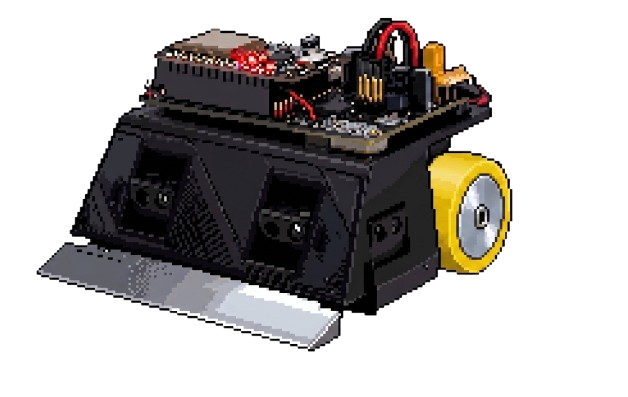
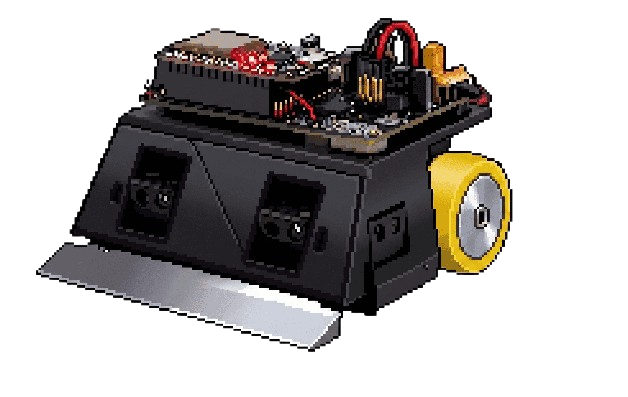
Ajustes de simetria, correção de glow e mudança de assets

diff --git a/web/majinboo.html b/web/majinboo.html
@@ -55,8 +55,6 @@
         font-family: var(--font-body);
         font-size: 16px;
         overscroll-behavior: none;
-        transform: scale(0.95);
-        transform-origin: top center;
       }
       button {
         font-family: inherit;
@@ -105,17 +103,17 @@
       /* ─── SPLASH / CONNECT ────────────────────────────────── */
       .splash-glow {
         position: absolute;
-        width: 380px;
-        height: 380px;
+        width: 280px;
+        height: 280px;
         border-radius: 50%;
         background: radial-gradient(
           circle,
-          rgba(245, 197, 24, 0.12) 0%,
-          transparent 005%
+          rgba(245, 197, 24, 0.10) 0%,
+          transparent 68%
         );
-        top: 50%;
+        top: 41%;
         left: 50%;
-        transform: translate(-50%, -60%);
+        transform: translate(-50%, -50%);
         pointer-events: none;
       }
       .logo-wrap {
